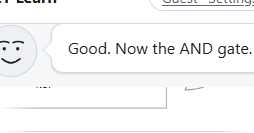
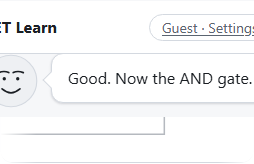
fix(circuit): 12 px text floor on phones via a compact layout (0.75x floor, 16-unit text)

diff --git a/src/interactions/CircuitDiagram/CircuitDiagram.tsx b/src/interactions/CircuitDiagram/CircuitDiagram.tsx
@@ -26,8 +26,12 @@ export interface CircuitDiagramProps {
   disabled?: boolean;
 }
 
-/** Smallest rendered scale (docs/DESIGN_SYSTEM.md): a three-column circuit fits a 390 px phone; below that the box scrolls sideways. */
-const MIN_SCALE = 0.6;
+/**
+ * Smallest rendered scale. All diagram text is 16 units or more, so at 0.75x it is still 12 px:
+ * the layout is compact enough for a three-column circuit to fit a 390 px phone at that scale.
+ * Narrower than that, the box scrolls sideways instead of shrinking the text.
+ */
+const MIN_SCALE = 0.75;
 
 /**
  * Small SVG circuit (up to 3 inputs, 4 gates) drawn like a textbook schematic: standard gate
@@ -134,10 +138,10 @@ export function CircuitDiagram({ id, spec, inputs, onToggleInput, lit = [], acti
             >
               {toggleable && <rect x="-12" y="-12" width={INPUT_W + 24} height={INPUT_H + 24} className={styles.hitArea} />}
               <rect width={INPUT_W} height={INPUT_H} rx="8" className={styles.inputBox} />
-              <text x="12" y="25" className={styles.label}>
+              <text x="7" y="26" className={styles.label}>
                 {inp.label}
               </text>
-              <text x="30" y="25" className={`${styles.value} ${v === 1 ? styles.valueHigh : styles.valueLow} mono`}>
+              <text x="23" y="26" className={`${styles.value} ${v === 1 ? styles.valueHigh : styles.valueLow} mono`}>
                 {v}
               </text>
             </g>

diff --git a/e2e/smoke.spec.ts b/e2e/smoke.spec.ts
@@ -162,6 +162,24 @@ test("logic gates activity: walk the circuit gate by gate, then explore inputs",
   await expect(page.getByText("Question 2 of 2")).toBeVisible();
 });
 
+test("circuit text stays at 12 px or more on a 390 px phone, with the whole circuit visible", async ({ page }) => {
+  await page.setViewportSize({ width: 390, height: 844 });
+  await page.goto("/courses/ecet111/logic-gates/predict-gate-output/");
+  await page.getByLabel("1", { exact: true }).check();
+  await page.getByRole("button", { name: "Check" }).click();
+  await expect(page.getByText("Gate 2 of 3: AND")).toBeVisible();
+  const report = await page.evaluate(() => {
+    const box = document.querySelector("[data-diagram]")!;
+    const svg = box.querySelector("svg")!;
+    const scale = svg.getBoundingClientRect().width / svg.viewBox.baseVal.width;
+    const sizes = [...svg.querySelectorAll("text")].map((t) => parseFloat(getComputedStyle(t).fontSize) * scale);
+    return { smallest: Math.min(...sizes), count: sizes.length, boxOverflow: box.scrollWidth - box.clientWidth };
+  });
+  expect(report.count).toBeGreaterThan(8);
+  expect(report.smallest).toBeGreaterThanOrEqual(12);
+  expect(report.boxOverflow).toBeLessThanOrEqual(0);
+});
+
 test("settings: clear local data resets progress", async ({ page }) => {
   await page.goto(ACTIVITY);
   await expect(page.getByTestId("learning-stage")).toBeVisible();

diff --git a/src/interactions/CircuitDiagram/layout.ts b/src/interactions/CircuitDiagram/layout.ts
@@ -32,17 +32,17 @@ export interface CircuitLayout {
 }
 
 export const GATE_H = 44;
-export const INPUT_W = 44;
+export const INPUT_W = 38;
 export const INPUT_H = 40;
-const INPUT_X = 8;
+const INPUT_X = 4;
 const ROW_H = 70;
-const COL_X0 = 108;
-const COL_W = 128;
+const COL_X0 = 82;
+const COL_W = 104;
 const PIN_DY = 11;
 const MIN_GATE_GAP = 64;
 /** A horizontal wire closer than this to a gate centre line would run through its body or label. */
 const BODY_CLEARANCE = 40;
-const OUTPUT_STUB = 40;
+const OUTPUT_STUB = 20;
 
 /** Distance from the left edge of the body to its output tip (bubble included). */
 export function gateWidth(type: GateType): number {
@@ -191,7 +191,7 @@ export function layoutCircuit(spec: CircuitSpec): CircuitLayout {
   ];
   const top = Math.min(...ys) - 12;
   const bottom = Math.max(...ys) + 12;
-  const right = Math.max(output.to.x + 48, ...spec.gates.map((g) => gates[g.id].x + gateWidth(g.type) + 28));
+  const right = Math.max(output.to.x + 44, ...spec.gates.map((g) => gates[g.id].x + gateWidth(g.type) + 28));
 
   return {
     viewBox: { x: 0, y: top, width: right, height: bottom - top },

diff --git a/src/interactions/CircuitDiagram/CircuitDiagram.module.css b/src/interactions/CircuitDiagram/CircuitDiagram.module.css
@@ -14,7 +14,7 @@
   height: auto;
   display: block;
   font-family: var(--font-sans);
-  font-size: 15px;
+  font-size: 16px;
 }
 
 .root[data-fade="end"] {
@@ -105,7 +105,6 @@
   fill: var(--text);
 }
 
-/* Values are the thing to read: larger than labels so they survive the 0.6x phone scale. */
 .value {
   font-size: 18px;
   font-weight: 700;
@@ -147,7 +146,7 @@
 
 .gateLabel {
   fill: var(--text);
-  font-size: 13px;
+  font-size: 16px;
   font-weight: 600;
   pointer-events: none;
 }

diff --git a/src/interactions/CircuitDiagram/README.md b/src/interactions/CircuitDiagram/README.md
@@ -23,6 +23,7 @@ drawn like a textbook schematic: standard gate symbols, one pin per gate input, 
   channel, so wires of different signals never share a segment; a signal that feeds two gates
   shows a junction dot; a wire that would pass through a gate is moved to a free lane.
   `layout.test.ts` asserts these rules on several circuits.
-- The SVG scales with its box down to 0.6× (a three-column circuit fits a 390 px phone). Below
-  that the box scrolls sideways, fades the hidden edge(s), becomes keyboard-focusable and keeps the
-  active gate in view. Toggleable inputs have an enlarged hit area.
+- Text never renders below 12 px: all diagram text is 16 units and the SVG scales with its box
+  down to 0.75× only. The layout is compact so a three-column circuit fits a 390 px phone at that
+  scale. Narrower, the box scrolls sideways, fades the hidden edge(s), becomes keyboard-focusable
+  and keeps the active gate in view. Toggleable inputs have an enlarged hit area.
